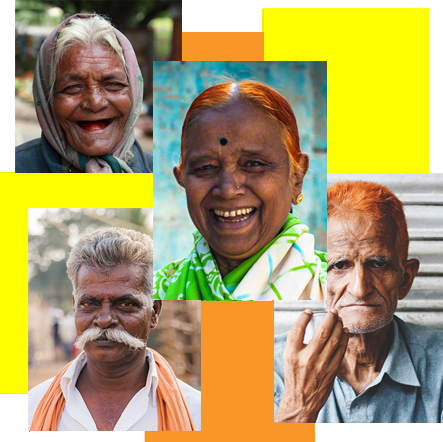
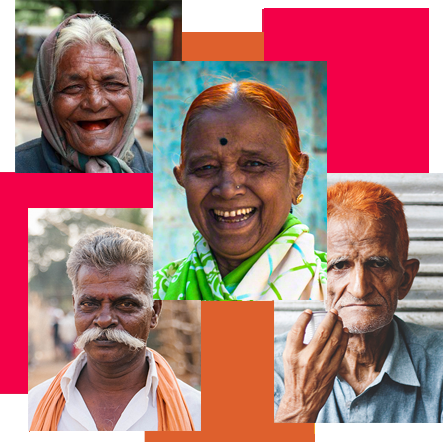
few fixes

Changed region(s): [[0.4108, 0.0, 0.9684, 0.4118], [0.0, 0.3824, 0.3521, 0.9118], [0.3228, 0.6765, 0.7336, 1.0]]

diff --git a/_layouts/default.html b/_layouts/default.html
@@ -26,19 +26,30 @@
     <nav>
 
         <div class="topnav" id="myTopnav">
-          <a href="#home" class="active">Background</a>
-<!--           <a href="#news">Who We Are</a>
+          <!-- <a href="#home" class="active">Background</a> -->
+           <div class="dropdown">
+            <div class="dropbtn">Background <i class="fa fa-caret-down"></i>
+            </div>
+            <div class="dropdown-content">
+              <a href="#">Aging World</a>
+              <a href="#">Aging India</a>
+            </div>
+          </div> 
+          
+      <a href="#news">Who We Are</a>
           <a href="#contact">Why We Are</a>
-          <a href="#contact">What We Do</a> -->
+
           
           <div class="dropdown">
-            <div class="dropbtn">About Us 
+            <div class="dropbtn">What We Do
               <i class="fa fa-caret-down"></i>
             </div>
             <div class="dropdown-content">
-              <a href="{{site.baseurl}}/who-are-we/">Who We Are</a>
-              <a href="{{site.baseurl}}/why-are-we/">Why We Are</a>
-              <a href="{{site.baseurl}}/what-we-do/">What We Do</a>
+              <a href="{{site.baseurl}}/who-are-we/">Activity</a>
+              <a href="{{site.baseurl}}/why-are-we/">Activity</a>
+              <a href="{{site.baseurl}}/what-we-do/">Activity</a>
+              <a href="{{site.baseurl}}/what-we-do/">Activity</a>
+              <a href="{{site.baseurl}}/what-we-do/">Activity</a>
             </div>
           </div> 
           <a href="#contact">Gallery</a>
@@ -51,7 +62,7 @@
 
     <div class="main-content">
        <div class="collage text-center">
-            <img  src="{{site.baseurl}}/img/collage-3.png" alt="">
+            <img  src="{{site.baseurl}}/img/collage-3-light.png" alt="">
         </div>
         
             <h4 class="text-center grey">THE FUTURE LOOK BLEAK UNLESS YOU ACT DIGILANTLY</h4>
@@ -67,7 +78,23 @@
     
     
     <footer>
-        
+        <div class="logo-details">
+            
+        </div>
+        <div class="page-links">
+            
+        </div>
+        <div class="latest-posts">
+            <ul>
+                <li><a href="http://advantageseniorsindia.blogspot.com/2018/06/how-often-you-visit-your-aged-parent.html">How Often You Visit Your Aged Parent</a></li>
+                <li><a href="http://advantageseniorsindia.blogspot.com/2018/02/parenting-your-parent-stories-of-five.html">Parenting Your Parent – Stories of Five Loving Daughters</a></li>
+                <li><a href="http://advantageseniorsindia.blogspot.com/2018/02/compassion-fatigue-don-twait-until-it.html">Compassion Fatigue - Don’t Wait Until it Hurts You</a></li>
+                <li><a href="http://advantageseniorsindia.blogspot.com/2018/02/the-aged-you-are-worse-hospitalisation.html">The Aged You Are, The Worse The Hospitalisation is For You</a></li>
+            </ul>
+        </div>
+        <div class="contact-us">
+            
+        </div>
     </footer>
 </div>
 

diff --git a/_sass/_nav.scss b/_sass/_nav.scss
@@ -11,8 +11,9 @@
 
 .topnav {
     a, .dropdown {
+        font-size: $base-font-size * 0.6;
         background-color: var(--brand-color);
-        margin-right: 2px;
+        margin-right: 1px;
     }
     
 }
@@ -24,7 +25,7 @@
   text-align: center;
   padding: 7px 16px;
   text-decoration: none;
-  font-size: $small-font-size * 0.9;
+  
 }
 
 .active {
@@ -42,7 +43,7 @@
 }
 
 .dropdown .dropbtn {
-    font-size: $small-font-size * 0.9;   
+    
     border: none;
     outline: none;
     color: white;
@@ -53,12 +54,14 @@
     cursor: pointer;
 }
 
+
+
 .dropdown-content {
     display: none;
     position: absolute;
    /*  background-color: #f9f9f9; */
     min-width: 160px;
-   /*  box-shadow: 0px 8px 16px 0px rgba(0,0,0,0.2); */
+    box-shadow: 0px 8px 16px 0px rgba(0,0,0,0.2);
     z-index: 1;
 }
 

diff --git a/_sass/_footer.scss b/_sass/_footer.scss
@@ -1,0 +1,19 @@
+footer {
+    margin-top: 2em;
+    padding: 1em 0;
+    min-height: 200px;
+    color: #ddd;
+    background: #222;
+    font-size: $base-font-size * 0.7;
+    display: grid;
+    grid-template-columns: repeat(4, 1fr);
+    
+    a {
+         color: #ddd;
+         text-decoration: none;
+        
+        &:hover {
+            color: #fff;
+        }
+    }
+}

diff --git a/_sass/_style.scss b/_sass/_style.scss
@@ -71,7 +71,7 @@ header {
 
 nav {
     grid-row: 2;
-    grid-column: 4 / 10;
+    grid-column: 3 / 11;
     height: 50px;
     margin: 0 auto;
     @include media-query($on-palm) {

diff --git a/css/main.scss b/css/main.scss
@@ -94,5 +94,6 @@ $variables: (
         "simple-grid",
         "style",
         "nav",
+        "footer",
         "custom"
 ;
